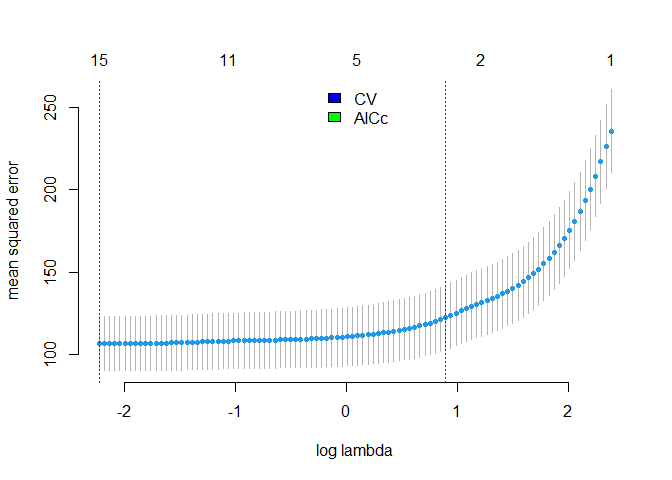
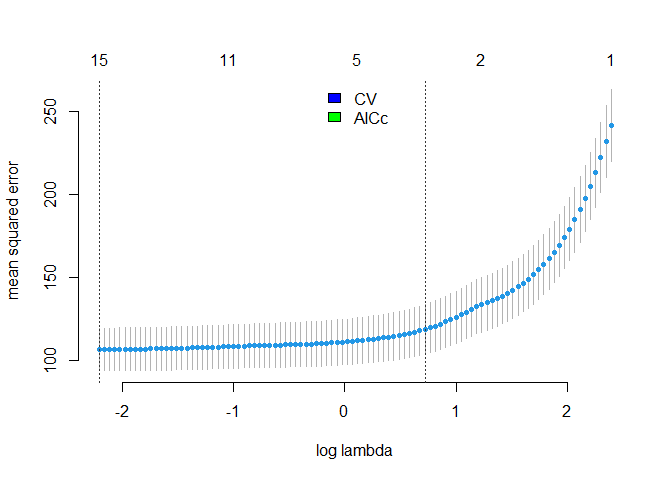
where is partial plot!

diff --git a/Assignment_3_files/HW3_3.md b/Assignment_3_files/HW3_3.md
@@ -16,60 +16,60 @@ testing dataset.
 ![](HW3_3_files/figure-markdown_strict/single%20Lasso%20plots-1.png)
 
     ##     seg1     seg2     seg3     seg4     seg5     seg6     seg7     seg8 
-    ## 34196.79 33918.40 33651.50 33397.97 33157.66 32930.36 32715.81 32513.70 
+    ## 34342.82 34061.86 33792.40 33536.35 33293.54 33063.80 32846.85 32642.40 
     ##     seg9    seg10    seg11    seg12    seg13    seg14    seg15    seg16 
-    ## 32323.68 32145.37 31978.35 31822.18 31676.42 31540.58 31414.18 31296.75 
+    ## 32450.12 32269.61 32100.48 31942.29 31794.59 31656.90 31528.75 31409.65 
     ##    seg17    seg18    seg19    seg20    seg21    seg22    seg23    seg24 
-    ## 31187.79 31086.84 30993.41 30907.05 30827.31 30753.76 30685.98 30623.58 
+    ## 31299.12 31196.69 31101.87 31014.20 30933.24 30858.54 30789.70 30726.31 
     ##    seg25    seg26    seg27    seg28    seg29    seg30    seg31    seg32 
-    ## 30566.17 30513.40 30464.93 30414.86 30330.68 30252.98 30180.01 30106.50 
+    ## 30667.98 30614.36 30565.10 30483.42 30397.27 30317.72 30245.21 30169.46 
     ##    seg33    seg34    seg35    seg36    seg37    seg38    seg39    seg40 
-    ## 30038.79 29976.46 29919.11 29866.39 29817.97 29773.52 29732.75 29695.36 
+    ## 30099.67 30035.40 29976.26 29921.88 29871.91 29826.04 29783.94 29745.34 
     ##    seg41    seg42    seg43    seg44    seg45    seg46    seg47    seg48 
-    ## 29661.10 29629.72 29600.53 29570.28 29542.62 29517.29 29494.12 29472.93 
+    ## 29709.95 29677.54 29647.86 29620.69 29595.83 29573.10 29552.31 29533.30 
     ##    seg49    seg50    seg51    seg52    seg53    seg54    seg55    seg56 
-    ## 29453.56 29435.86 29419.69 29404.92 29391.43 29379.11 29367.87 29357.60 
+    ## 29515.74 29497.53 29480.89 29465.69 29451.81 29439.13 29427.56 29417.00 
     ##    seg57    seg58    seg59    seg60    seg61    seg62    seg63    seg64 
-    ## 29348.24 29339.69 29331.90 29324.78 29318.30 29312.38 29306.98 29303.32 
+    ## 29407.36 29398.56 29390.53 29383.21 29376.53 29370.44 29366.76 29360.99 
     ##    seg65    seg66    seg67    seg68    seg69    seg70    seg71    seg72 
-    ## 29297.37 29291.95 29287.00 29282.49 29280.30 29277.63 29272.48 29267.78 
+    ## 29355.72 29350.92 29346.83 29342.73 29336.93 29331.62 29328.46 29323.53 
     ##    seg73    seg74    seg75    seg76    seg77    seg78    seg79    seg80 
-    ## 29264.83 29260.15 29258.23 29251.97 29242.85 29234.50 29226.88 29221.74 
+    ## 29317.81 29309.18 29302.82 29294.76 29287.41 29280.70 29277.66 29269.78 
     ##    seg81    seg82    seg83    seg84    seg85    seg86    seg87    seg88 
-    ## 29214.75 29208.38 29202.62 29197.31 29192.47 29188.06 29184.03 29180.36 
+    ## 29262.54 29255.94 29249.98 29244.49 29239.48 29234.91 29230.74 29226.95 
     ##    seg89    seg90    seg91    seg92    seg93    seg94    seg95    seg96 
-    ## 29177.01 29173.96 29171.18 29168.69 29166.38 29164.27 29164.33 29162.27 
+    ## 29223.48 29222.28 29219.22 29216.38 29213.79 29211.43 29209.28 29209.33 
     ##    seg97    seg98    seg99   seg100 
-    ## 29160.45 29158.75 29157.19 29157.73
+    ## 29207.48 29205.79 29204.29 29202.89
 
 ![](HW3_3_files/figure-markdown_strict/single%20Lasso%20plots-2.png)
 
     ## 21 x 1 sparse Matrix of class "dgCMatrix"
-    ##                           seg99
-    ## intercept         -1.206070e+01
-    ## cluster            6.542621e-04
-    ## size               7.016924e-06
+    ##                          seg100
+    ## intercept         -1.131182e+01
+    ## cluster            7.252011e-04
+    ## size               7.699813e-06
     ## empl_gr            .           
     ## stories            .           
-    ## age               -5.504902e-03
-    ## renovated          9.938373e-02
-    ## class_a            3.719388e+00
-    ## class_b            1.750962e+00
-    ## LEED               .           
+    ## age               -1.017763e-02
+    ## renovated          .           
+    ## class_a            4.030161e+00
+    ## class_b            2.147635e+00
+    ## LEED               2.542122e-01
     ## Energystar         .           
-    ## green_rating       1.080646e+00
-    ## net               -1.206311e+00
-    ## amenities          1.860945e+00
-    ## cd_total_07       -1.618084e-04
-    ## hd_total07         4.500813e-04
+    ## green_rating       1.137396e+00
+    ## net               -1.387202e+00
+    ## amenities          1.352245e+00
+    ## cd_total_07       -1.546377e-04
+    ## hd_total07         3.821005e-04
     ## total_dd_07        .           
-    ## Precipitation      .           
+    ## Precipitation     -8.286672e-03
     ## Gas_Costs          .           
-    ## Electricity_Costs  8.350395e+01
-    ## City_Market_Rent   9.826280e-01
+    ## Electricity_Costs  6.853974e+01
+    ## City_Market_Rent   9.938876e-01
 
-    ##     seg99 
-    ## 0.1131618
+    ##    seg100 
+    ## 0.1097743
 
 In this simple lasso result, we can see that as lambda become smaller,
 AIC increasing. On the other hand, we can see that which variables are
@@ -85,7 +85,7 @@ unimportant variable in the simple lasso regression.
 
     ## fold 1,2,3,4,5,6,7,8,9,10,done.
 
-    ## [1] -2.225453
+    ## [1] -2.209329
 
     ## [1] 15
 
@@ -98,26 +98,26 @@ The function we used is:
 we get the coefficients of the function as well as its AIC and rmse:
 
     ##                   cluster                      size                   empl_gr 
-    ##              5.365592e-04              6.855987e-06             -1.202108e-02 
+    ##              6.172140e-04              7.769459e-06             -1.965194e-02 
     ##                   stories                       age                 renovated 
-    ##              4.691125e-03             -1.517906e-02              3.958709e-01 
+    ##              7.296407e-04             -1.759242e-02              1.861738e-01 
     ##                   class_a                   class_b                      LEED 
-    ##              4.020482e+00              2.145600e+00              2.240856e+00 
+    ##              4.385515e+00              2.573633e+00              2.320291e+00 
     ##                Energystar              green_rating                       net 
-    ##              1.811771e+00             -6.540084e-01             -1.770811e+00 
+    ##              9.874337e-01              2.028951e-01             -1.898754e+00 
     ##                 amenities               cd_total_07                hd_total07 
-    ##              1.568729e+00             -1.638026e-03             -1.187566e-03 
+    ##              1.116537e+00             -1.573257e-03             -1.195938e-03 
     ##               total_dd_07             Precipitation                 Gas_Costs 
-    ##                        NA             -3.529868e-01              6.270972e+00 
+    ##                        NA             -3.658337e-01              5.790504e+01 
     ##         Electricity_Costs          City_Market_Rent total_dd_07:Precipitation 
-    ##              3.627630e+00              9.909770e-01              5.745253e-05
+    ##             -1.293316e+01              1.007655e+00              5.620602e-05
 
-    ## [1] 46991.47
+    ## [1] 47023.73
 
     ## Warning in predict.lm(model, data): prediction from a rank-deficient fit may be
     ## misleading
 
-    ## [1] 11.10042
+    ## [1] 10.99195
 
 ### tree model, based on CART, random forests, and gradient-boosted trees
 
@@ -137,14 +137,14 @@ we can get the tree plot and cross-validated error as:
 ![](HW3_3_files/figure-markdown_strict/CART%20tree%20and%20CV%20plot-1.png)![](HW3_3_files/figure-markdown_strict/CART%20tree%20and%20CV%20plot-2.png)
 Then use function to pick the smallest tree, and get the minimum rmse:
 
-    ## [1] 10.85673
+    ## [1] 10.88788
 
 #### random forests
 
 we use random forests to do the estimation, based on same tree model’s
 dependent variables, and we get its RMSE:
 
-    ## [1] 8.658399
+    ## [1] 8.342946
 
 #### gradient-boosted trees
 
@@ -153,7 +153,7 @@ dependent variables, and we get its RMSE: now we average over 100
 bootstrap samples, this time use **all candidate variables (mtry=20)**
 in each bootstrapped sample
 
-    ## [1] 9.089202
+    ## [1] 8.526135
 
 #### model compare
 
@@ -168,22 +168,22 @@ in each bootstrapped sample
 <tbody>
 <tr class="odd">
 <td style="text-align: left;">mannual</td>
-<td style="text-align: right;">11.100424</td>
+<td style="text-align: right;">10.991946</td>
 <td style="text-align: left;">NA</td>
 </tr>
 <tr class="even">
 <td style="text-align: left;">CART</td>
-<td style="text-align: right;">10.856727</td>
+<td style="text-align: right;">10.887879</td>
 <td style="text-align: left;">NA</td>
 </tr>
 <tr class="odd">
 <td style="text-align: left;">random forests</td>
-<td style="text-align: right;">8.658399</td>
+<td style="text-align: right;">8.342946</td>
 <td style="text-align: left;">NA</td>
 </tr>
 <tr class="even">
 <td style="text-align: left;">gradient-boosted trees</td>
-<td style="text-align: right;">9.089203</td>
+<td style="text-align: right;">8.526135</td>
 <td style="text-align: left;">NA</td>
 </tr>
 </tbody>
